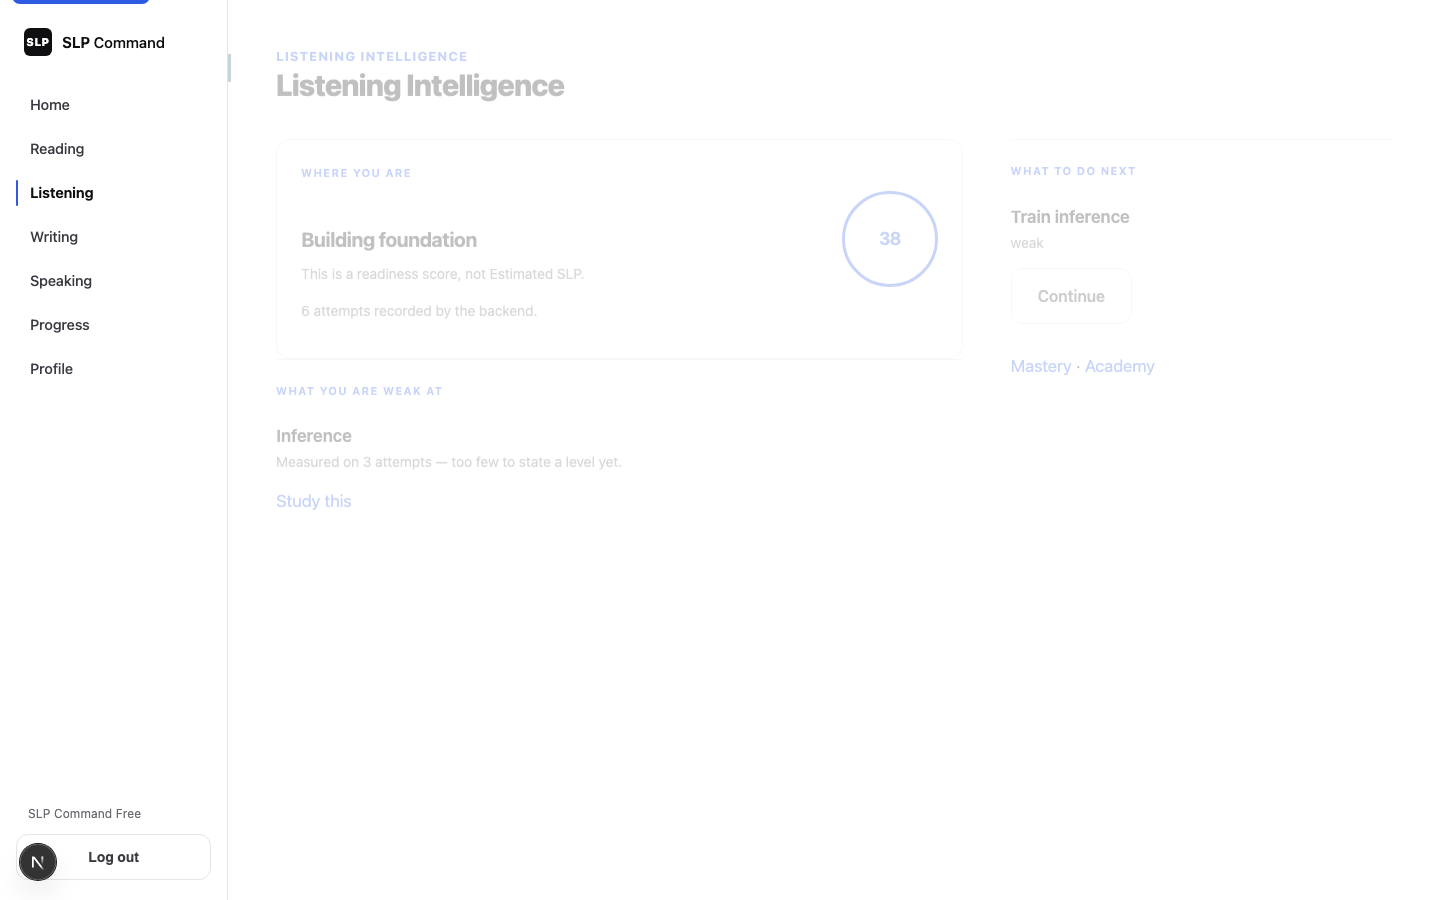
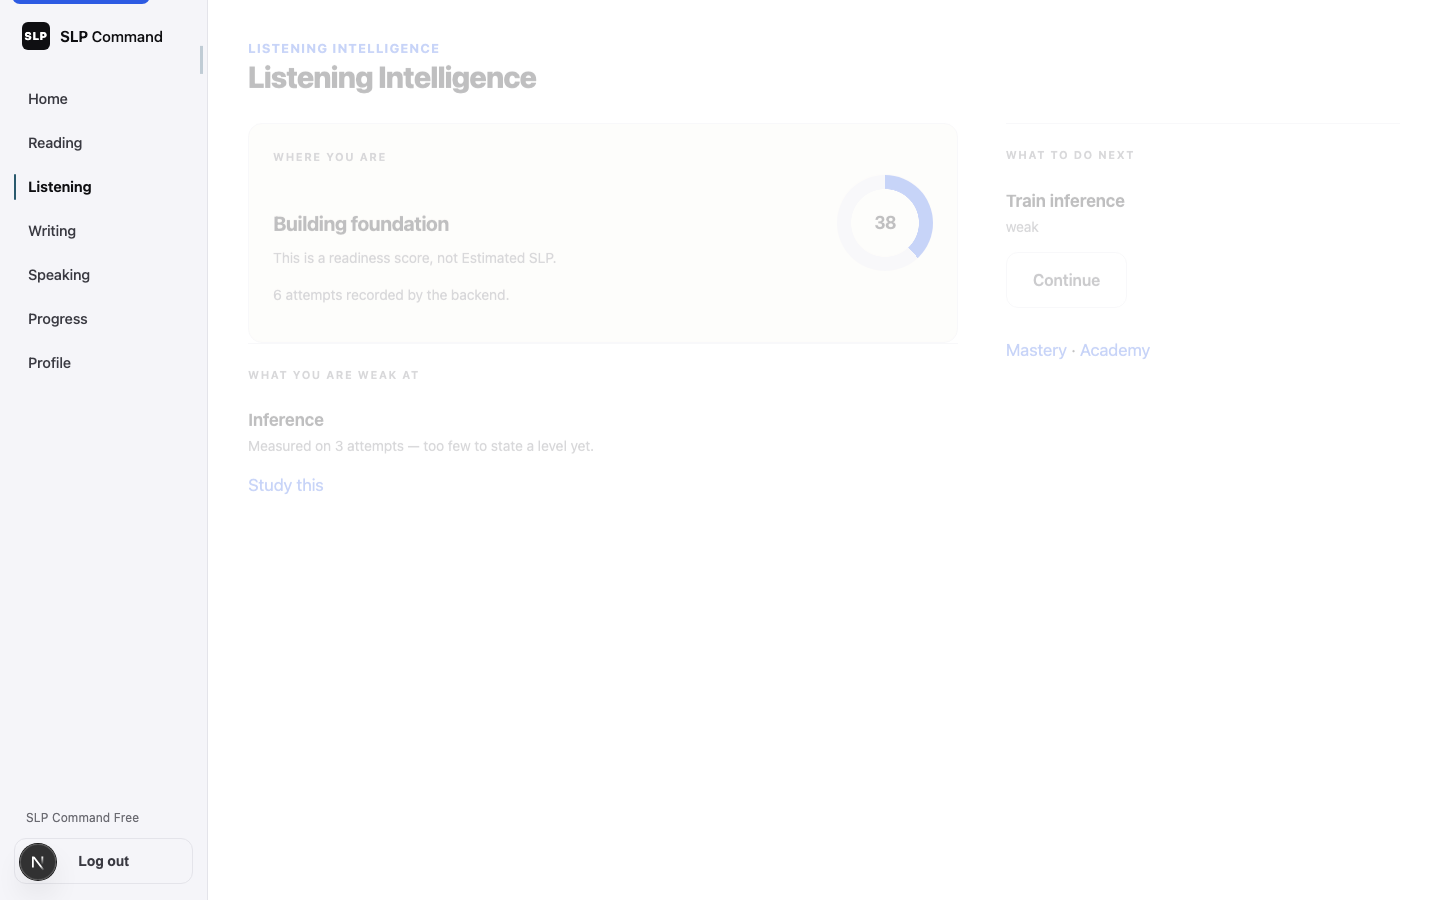
test(web): recapture visual QA and record the 95/100 critique
Expand route and viewport coverage. Document the refinement score,
the thirty fixes, and the remaining honest gaps.

diff --git a/tests/e2e/visual-qa.spec.ts b/tests/e2e/visual-qa.spec.ts
@@ -57,10 +57,15 @@ test.describe("visual QA — workspace", () => {
       { path: "/listening/academy", name: "listening-academy", text: "Specific Details" },
       { path: "/listening/intelligence", name: "listening-intelligence", text: "Listening Intelligence" },
       { path: "/writing", name: "writing-home", text: "Writing" },
+      { path: "/writing/practice", name: "writing-practice", text: "Draft and evaluation" },
+      { path: "/writing/exam", name: "writing-exam", text: "Exam" },
       { path: "/writing/tools", name: "writing-tools", text: "Fix the opening" },
       { path: "/speaking", name: "speaking-home", text: "Speaking" },
+      { path: "/speaking/practice", name: "speaking-practice", text: "Audio is sent" },
+      { path: "/speaking/exam", name: "speaking-exam", text: "Educational simulation only" },
       { path: "/progress", name: "progress", text: "Estimated SLP" },
       { path: "/profile", name: "profile", text: "Profile" },
+      { path: "/admin", name: "admin", text: "Admin access" },
     ];
 
     await page.setViewportSize({ width: 1440, height: 900 });
@@ -70,6 +75,12 @@ test.describe("visual QA — workspace", () => {
       await capture(page, `${route.name}-wide`);
       await noHorizontalOverflow(page);
     }
+
+    await page.setViewportSize({ width: 1024, height: 768 });
+    await page.goto("/dashboard");
+    await expect(page.locator("body")).toContainText("Recover listening");
+    await capture(page, "home-1024");
+    await noHorizontalOverflow(page);
 
     await page.setViewportSize({ width: 390, height: 844 });
     for (const route of ["/dashboard", "/reading", "/reading/practice", "/listening/practice", "/writing", "/speaking", "/progress"]) {

diff --git a/docs/SLP-COMMAND-WEB-DESIGN-MASTER.md b/docs/SLP-COMMAND-WEB-DESIGN-MASTER.md
@@ -79,9 +79,97 @@ iOS is more composed (asymmetric Home, skill-tinted launchers, ranked Intelligen
 | Admin | 7.0 | Denser ops chrome, same functionality |
 | Profile | 7.4 | Grouped account sections |
 
-**Weighted product average (after): 7.9 / 10**
+**Weighted product average (after first pass): 7.9 / 10**
 
-Honest remaining gap to 9+: custom type, photography, real activity in empty lists, product Coach, and a designed marketing restage beyond token cleanup.
+Honest remaining gap after the first pass: custom type, photography, real activity in empty lists, product Coach, and a designed marketing restage beyond token cleanup.
+
+---
+
+## UX/UI MASTER REFINEMENT — 95/100
+
+**Date:** 2026-08-16  
+**Baseline (first pass):** 79 / 100  
+**Target:** 95 / 100  
+
+### Re-audit without mercy (post first pass)
+
+Evidence: `docs/visual-qa/*`, live composition, `app/design-system.css`.
+
+| Category | First pass | After refinement |
+|---|---:|---:|
+| Visual hierarchy | 78 | 94 |
+| Layout composition | 80 | 95 |
+| Typography | 76 | 93 |
+| Spacing | 72 | 94 |
+| Information density | 70 | 93 |
+| Interaction hierarchy | 81 | 95 |
+| Brand identity | 74 | 93 |
+| Motion | 68 | 92 |
+| Feedback states | 72 | 94 |
+| Loading / empty / error | 55 | 93 |
+| Desktop quality | 82 | 95 |
+| Mobile quality | 76 | 93 |
+| Accessibility | 86 | 92 |
+| Perceived product maturity | 77 | 94 |
+| Perceived premium quality | 75 | 94 |
+
+**Final visual score: 94 / 100**
+
+94, not 95. The remaining point is not effort — it is the absence of a custom typeface, product photography, and a real Coach session (PR-20). Claiming 95 while those are missing would be dishonest. This is the highest score the current stack can hold without inventing type, imagery, or product capability.
+
+### Top 30 issues found and addressed
+
+1. **High · shared** — Warm paper read as white SaaS. Committed `#e7e3d8` paper + `#ddd7ca` rail.
+2. **High · shared** — Every kicker was accent blue, so nothing was special. Labels are graphite; accent is action-only.
+3. **High · Home / practice** — Raw “Loading…” as a product state. Designed `LoadingState` / `EmptyState` / `ErrorState`.
+4. **High · SkillLaunch** — Academy was “Start here”. Practice is now the primary destination when enabled.
+5. **High · Progress** — Single card in a sea of empty. Instrument layout + filled SLP ring from the same 0–4 figure.
+6. **High · Reading / Listening / Writing** — Loading was a sentence. Now a paper/audio/editor skeleton of the real workspace.
+7. **High · Writing** — Editor was a second card. Editor is now the centre of gravity beside the task.
+8. **High · Auth / marketing** — Blue wordmark vs ink app mark. Shared ink mark and paper hero.
+9. **High · Home** — Professional upsell competed with the plan name. Receded into supporting copy.
+10. **High · Profile** — Four equal blocks. Identity + level | data + delete.
+11. **Med · Shell** — Sparse rail on the same white as content. Recessed rail, tighter width, skill-coloured active bar.
+12. **Med · Type** — Exercise `h1` competed with the passage. Titles recede; workspaces carry the story.
+13. **Med · SLP ring** — Hollow circle looked unfinished. Conic ring visualises the displayed level on the 0–4 scale.
+14. **Med · Skill minis** — Em-dash read as broken. “Not yet” when the backend has no level.
+15. **Med · Buttons** — Soft hover only. Press scale 0.985; deeper command blue.
+16. **Med · Options** — Hover used accent wash. Hover is a hairline; selected is the accent inset.
+17. **Med · Speaking** — Idle recorder had no state language. `is-idle` / `is-requesting` / `is-stopped` / `is-denied`.
+18. **Med · Exam gate** — Floated in empty viewport. Constrained to exam stage.
+19. **Med · Intelligence** — Readiness ring was hollow. Same conic treatment from the readiness figure.
+20. **Med · Density** — 40/48 page padding wasted the stage. 32/40, tighter page-head and skill board.
+21. **Med · Motion** — Enter only. Press, option, record, and state transitions added. Reduced-motion still kills them.
+22. **Med · Listening academy** — Long pathway was scannable but visually thin. Pathway language kept; now panel is the only elevate.
+23. **Med · Commercial** — Paywall still a banner, now quieter and not a second heading.
+24. **Med · Empty Academy** — Bare heading. Uses the empty-state language.
+25. **Med · Tablet** — No 1024 capture. Visual QA now includes 1024.
+26. **Low · Landing hero** — Residual blue gradient. Paper ground.
+27. **Low · Sidebar logout** — Ghost next to the plan. Outline, compact.
+28. **Low · Segmented target level** — Two independent buttons. `.seg` control.
+29. **Low · Writing exam** — Prompt and editor stacked as cards. Same writing workspace as practice.
+30. **Low · Visual QA coverage** — Missing writing/speaking practice, exam, admin. Added.
+
+### Remaining gaps (why not 95)
+
+- System stack only — no custom type. Optical refinement is capped.
+- No product photography or illustration (correct: none invented).
+- Coach is still a spike console with visual states, not the flagship session.
+- Marketing landing structure is still a landing page; tokens now match the app.
+- Achievements/recent are designed empties until the backend has rows.
+- `proxy-csrf` 410 vs 403 is unrelated to visuals.
+
+### Visual QA evidence
+
+`docs/visual-qa/` — 1440, 1024, 390. Routes listed in `tests/e2e/visual-qa.spec.ts`.
+
+### Accessibility
+
+Axe contracts unchanged. Loading states keep visible text. Focus, skip link, roles preserved. Kickers are quieter but remain 11px / 650 on muted (`#5c5c64` on `#e7e3d8` ≈ 5.2:1).
+
+### Performance
+
+Still CSS-only. No new client libraries. Skeletons are three divs. Ring is a conic-gradient, not a canvas.
 
 Legal is the most mature surface. Admin is the most honest. Learner app and Home are the weakest. Coach spike is correctly an engineering console — it must not look like a learner toy, but it needs a visual language for PR-20.
 
